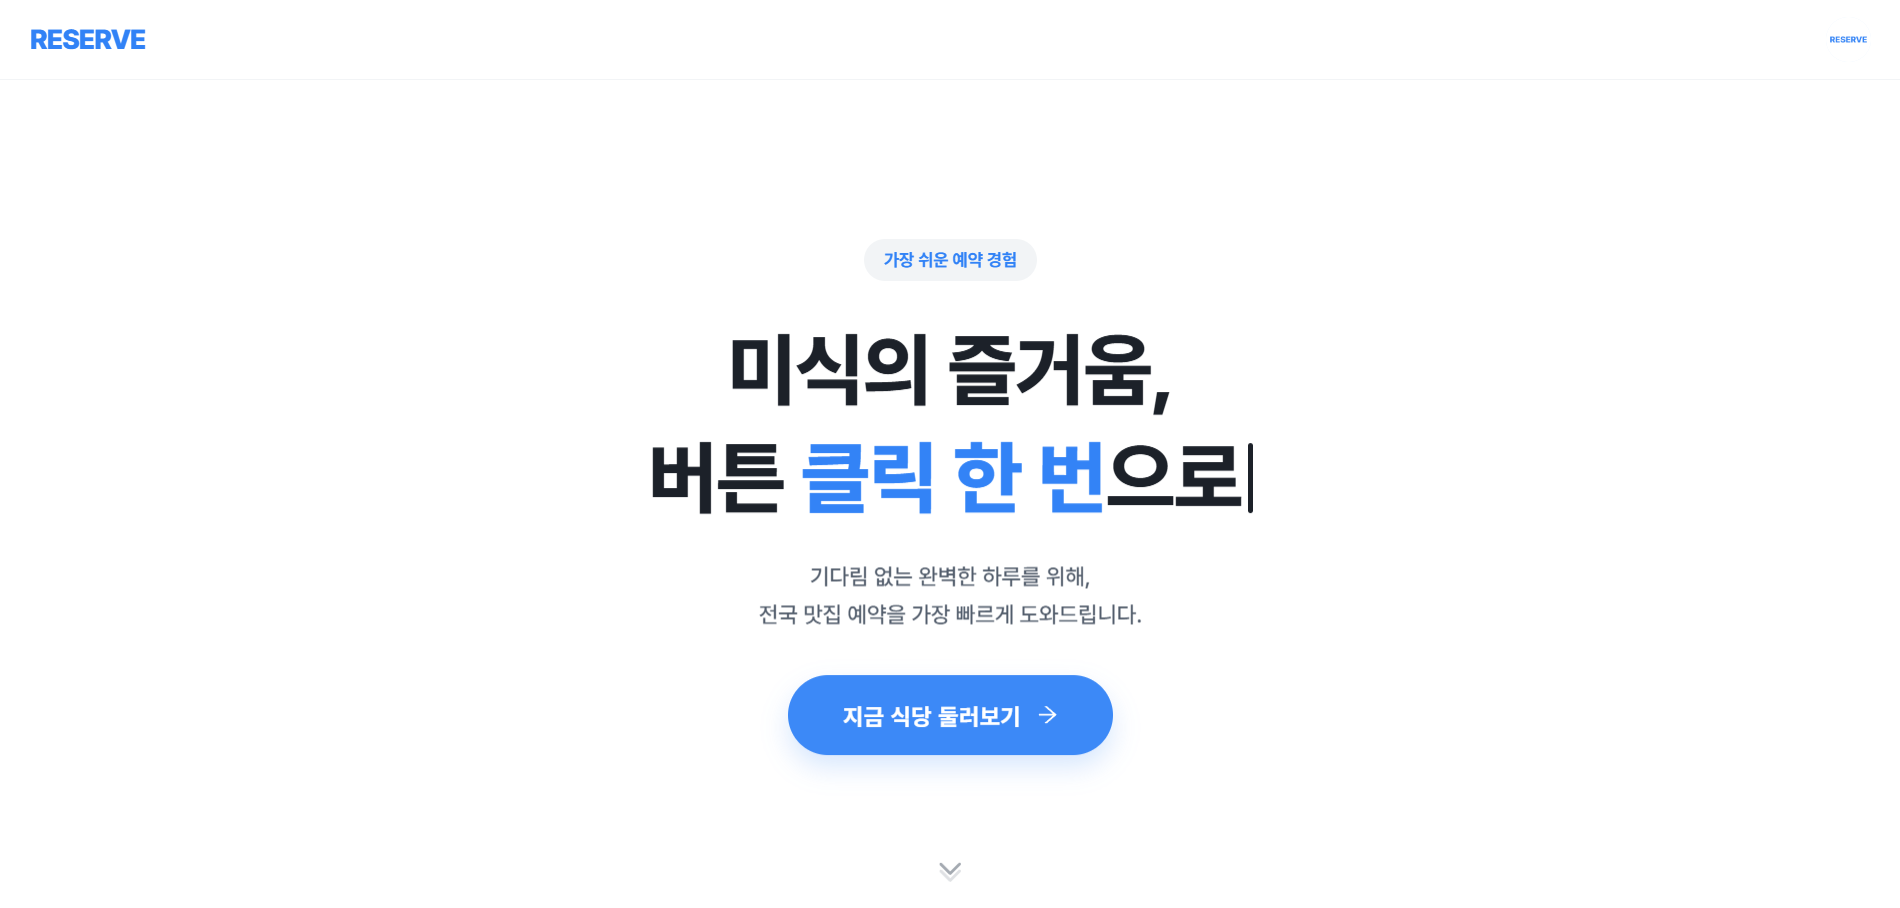
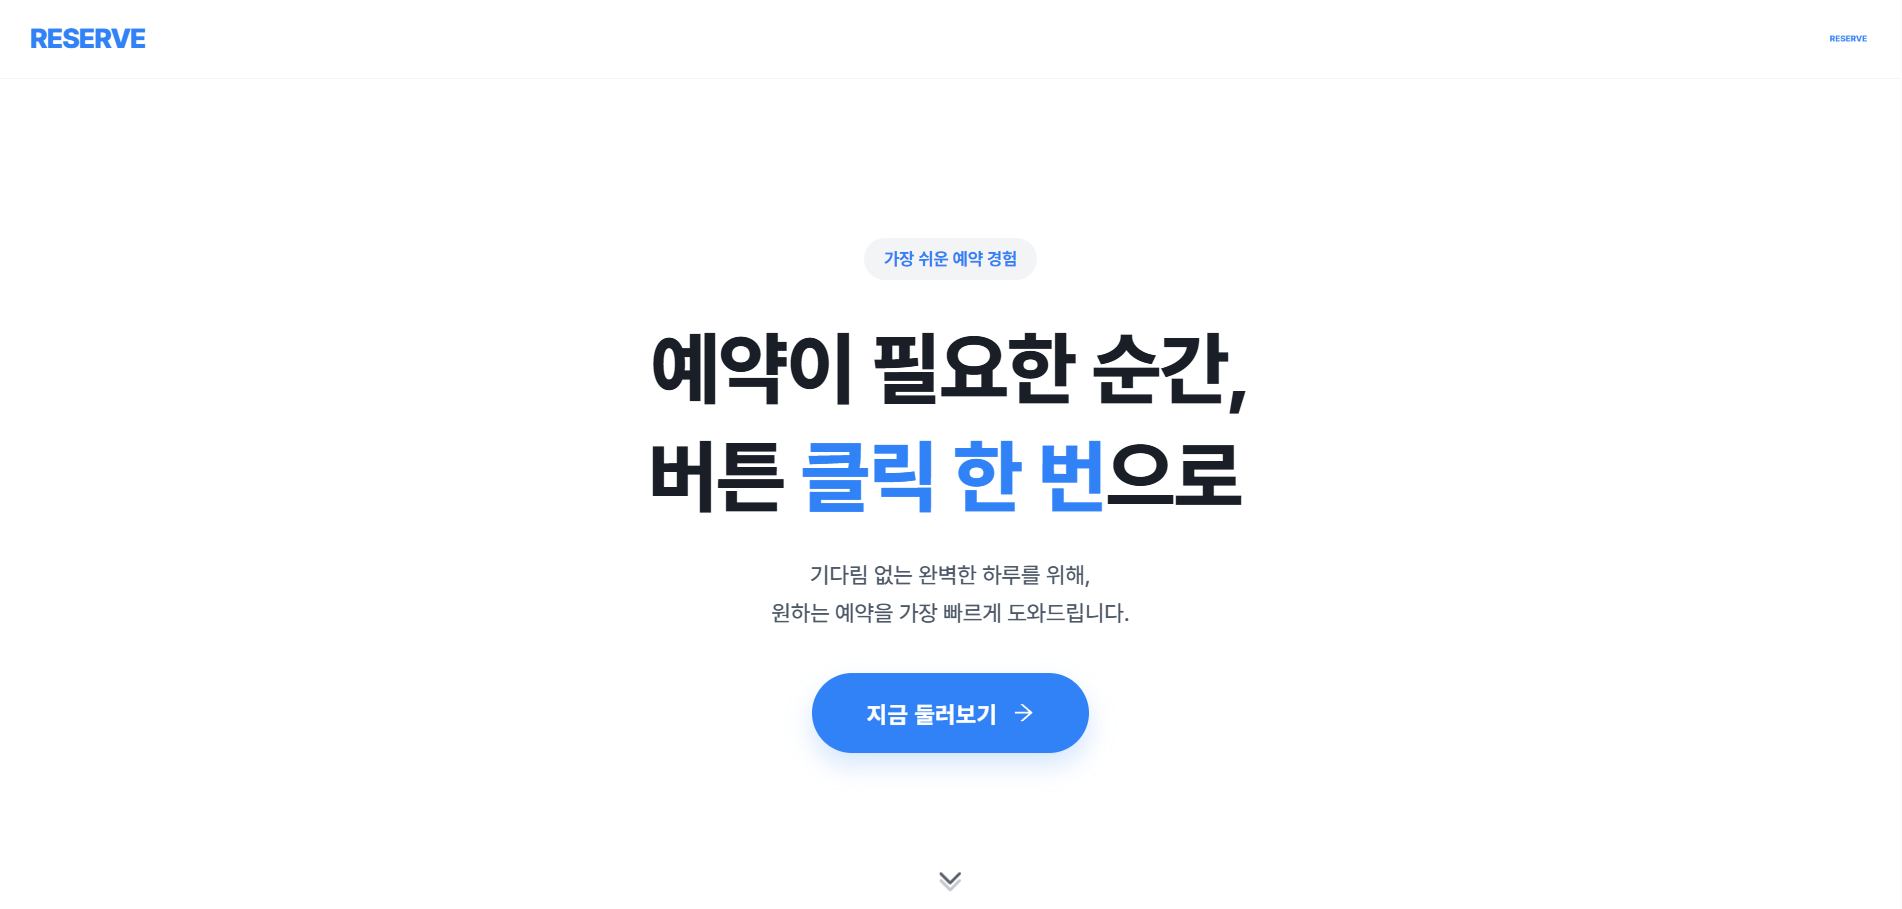
style: rebrand from restaurant-only to general reservation platform
Rebrand restaurant-specific copy to a general, any-industry reservation platform. Updated hero/section copy, FAQ, footer, terms, SEO meta (title/OG/twitter/JSON-LD), README, og-image, and screenshots; removed the unused Velog thumbnail.

diff --git a/frontend/src/pages/Home/Home.data.js b/frontend/src/pages/Home/Home.data.js
@@ -2,32 +2,32 @@ import { colors } from '../../styles/tokens';
 
 export const STORE_DATA = [
     {
-        name: '모던 이탈리안 키친',
-        category: '이탈리안',
+        name: '모던 필라테스 스튜디오',
+        category: '필라테스',
         rating: 4.9,
         reviewCount: 128,
-        img: 'https://images.unsplash.com/photo-1555396273-367ea4eb4db5?w=400&q=80',
+        img: 'https://images.unsplash.com/photo-1518611012118-696072aa579a?w=400&q=80',
     },
     {
-        name: '스시 오마카세 료',
-        category: '일식',
+        name: '청담 헤어살롱 료',
+        category: '헤어',
         rating: 4.8,
         reviewCount: 94,
-        img: 'https://images.unsplash.com/photo-1579871494447-9811cf80d66c?w=400&q=80',
+        img: 'https://images.unsplash.com/photo-1580618672591-eb180b1a973f?w=400&q=80',
     },
 ];
 
 export const RESERVATION_DATA = [
     {
-        storeName: '모던 이탈리안 키친',
-        img: 'https://images.unsplash.com/photo-1555396273-367ea4eb4db5?w=400&q=80',
+        storeName: '모던 필라테스 스튜디오',
+        img: 'https://images.unsplash.com/photo-1518611012118-696072aa579a?w=400&q=80',
         date: '2026-03-15', time: '19:00', guestCount: 2, amount: 50000,
         statusLabel: '예약 확정', statusColor: colors.primary.main,
         actionLabel: '취소', actionVariant: 'ghost-sm-danger',
     },
     {
-        storeName: '스시 오마카세 료',
-        img: 'https://images.unsplash.com/photo-1579871494447-9811cf80d66c?w=400&q=80',
+        storeName: '청담 헤어살롱 료',
+        img: 'https://images.unsplash.com/photo-1580618672591-eb180b1a973f?w=400&q=80',
         date: '2026-03-22', time: '20:00', guestCount: 4, amount: 80000,
         statusLabel: '이용 완료', statusColor: colors.success.main,
         actionLabel: '리뷰 쓰기', actionVariant: 'ghost-sm-primary',
@@ -35,10 +35,10 @@ export const RESERVATION_DATA = [
 ];
 
 export const FAQS = [
-    { q: '예약은 어떻게 하나요?',              a: '원하는 식당을 선택하고 날짜, 시간, 인원을 선택하면 바로 예약할 수 있어요. 회원가입 후 5분이면 충분해요.' },
+    { q: '예약은 어떻게 하나요?',              a: '원하는 가게를 선택하고 날짜, 시간, 인원을 선택하면 바로 예약할 수 있어요. 회원가입 후 5분이면 충분해요.' },
     { q: '예약 취소는 가능한가요?',             a: '예약 확정 전이라면 내 예약 페이지에서 언제든지 취소할 수 있어요. 취소 후 보증금은 자동 환불됩니다.' },
     { q: '결제는 어떻게 이루어지나요?',         a: '카카오페이로 간편하게 결제할 수 있어요. 예약 보증금만 미리 결제되며, 나머지는 방문 후 직접 결제해요.' },
     { q: '리뷰는 언제 작성할 수 있나요?',       a: '방문 후 이용 완료 상태가 되면 리뷰를 작성할 수 있어요. 내 예약 페이지에서 바로 작성 가능해요.' },
-    { q: '원하는 식당이 없으면 어떻게 하나요?', a: '현재 지속적으로 입점 식당을 늘리고 있어요. 원하는 식당이 없다면 리뷰나 문의로 알려주세요!' },
-    { q: '예약 확정은 얼마나 걸리나요?',        a: '식당 사정에 따라 다르지만 보통 24시간 이내에 확정 또는 거절 알림을 받을 수 있어요.' },
+    { q: '원하는 가게가 없으면 어떻게 하나요?', a: '현재 지속적으로 입점 가게를 늘리고 있어요. 원하는 가게가 없다면 리뷰나 문의로 알려주세요!' },
+    { q: '예약 확정은 얼마나 걸리나요?',        a: '가게 사정에 따라 다르지만 보통 24시간 이내에 확정 또는 거절 알림을 받을 수 있어요.' },
 ];

diff --git a/frontend/src/hooks/useDocumentTitle.js b/frontend/src/hooks/useDocumentTitle.js
@@ -1,7 +1,7 @@
 import { useEffect } from 'react';
 
 const SITE_NAME = 'RESERVE';
-const DEFAULT_DESCRIPTION = '기다림 없는 완벽한 하루를 위해, 전국 맛집 예약을 가장 빠르게 도와드립니다.';
+const DEFAULT_DESCRIPTION = '예약이 필요한 순간, 원하는 가게를 찾고 가장 빠르게 예약하세요.';
 
 /**
  * 페이지별 document title + meta description 동기화 훅
@@ -9,14 +9,14 @@ const DEFAULT_DESCRIPTION = '기다림 없는 완벽한 하루를 위해, 전국
  * 사용법:
  *   useDocumentTitle('가게 목록');
  *   useDocumentTitle('스타벅스 강남점', '스타벅스 강남점 예약 페이지입니다.');
- *   useDocumentTitle(null); // 홈 — "RESERVE | 전국 맛집 예약 플랫폼"
+ *   useDocumentTitle(null); // 홈 — "RESERVE | 예약이 필요한 순간"
  */
 const useDocumentTitle = (pageTitle, description) => {
     useEffect(() => {
         // ── title ──────────────────────────────────────────
         const title = pageTitle
             ? `${pageTitle} | ${SITE_NAME}`
-            : `${SITE_NAME} | 전국 맛집 예약 플랫폼`;
+            : `${SITE_NAME} | 예약이 필요한 순간`;
 
         document.title = title;
 
@@ -40,11 +40,11 @@ const useDocumentTitle = (pageTitle, description) => {
 
         // ── 페이지 이탈 시 기본값으로 복원 ─────────────────
         return () => {
-            document.title = `${SITE_NAME} | 전국 맛집 예약 플랫폼`;
+            document.title = `${SITE_NAME} | 예약이 필요한 순간`;
             setMeta('meta[name="description"]', DEFAULT_DESCRIPTION);
-            setMeta('meta[property="og:title"]', `${SITE_NAME} | 전국 맛집 예약 플랫폼`);
+            setMeta('meta[property="og:title"]', `${SITE_NAME} | 예약이 필요한 순간`);
             setMeta('meta[property="og:description"]', DEFAULT_DESCRIPTION);
-            setMeta('meta[name="twitter:title"]', `${SITE_NAME} | 전국 맛집 예약 플랫폼`);
+            setMeta('meta[name="twitter:title"]', `${SITE_NAME} | 예약이 필요한 순간`);
             setMeta('meta[name="twitter:description"]', DEFAULT_DESCRIPTION);
         };
     }, [pageTitle, description]);

diff --git a/frontend/src/pages/store/StoreList.jsx b/frontend/src/pages/store/StoreList.jsx
@@ -21,7 +21,7 @@ const StoreList = () => {
         searchParams, setSearchParams,
     } = useStoreList();
 
-    useDocumentTitle('가게 목록', '원하는 조건으로 최고의 식당을 찾아보세요. RESERVE에서 전국 맛집을 간편하게 예약할 수 있습니다.');
+    useDocumentTitle('가게 목록', '원하는 조건으로 최고의 가게를 찾아보세요. RESERVE에서 다양한 업종을 간편하게 예약할 수 있습니다.');
 
     const sentinelRef = React.useRef(null);
     const fetchNextRef = React.useRef(fetchNextPage);
@@ -52,14 +52,14 @@ const StoreList = () => {
             {/* 헤더 */}
             <div style={styles.header}>
                 <div style={styles.headerLeft}>
-                    <Title level={2} style={styles.title}>맛집 둘러보기</Title>
+                    <Title level={2} style={styles.title}>가게 둘러보기</Title>
                     <Text type="secondary" style={{ fontSize: fontSize.lg }}>
-                        원하는 조건으로 최고의 식당을 찾아보세요
+                        원하는 조건으로 최고의 가게를 찾아보세요
                     </Text>
                 </div>
                 <div style={styles.searchWrap}>
                     <Search
-                        placeholder="식당 이름 또는 카테고리"
+                        placeholder="가게 이름 또는 카테고리"
                         defaultValue={searchParams.keyword}
                         key={searchParams.keyword}
                         onSearch={handleSearch}
@@ -89,7 +89,7 @@ const StoreList = () => {
                     <div style={styles.fadeOut} />
                 </div>
             ) : stores.length === 0 ? (
-                <Empty description="조건에 맞는 식당이 없습니다." style={{ marginTop: 100 }} />
+                <Empty description="조건에 맞는 가게가 없습니다." style={{ marginTop: 100 }} />
             ) : (
                 <>
                     <div style={styles.grid}>

diff --git a/frontend/src/pages/Home/sections/HeroSection.jsx b/frontend/src/pages/Home/sections/HeroSection.jsx
@@ -56,7 +56,7 @@ export default function HeroSection({ isMobile }) {
                 </div>
                 <div className="slide-up" style={{ ...styles.titleContainer, animationDelay: '0.18s' }}>
                     <Title style={styles.mainTitle}>
-                        <div style={styles.lineWrapper}>미식의 즐거움,</div>
+                        <div style={styles.lineWrapper}>예약이 필요한 순간,</div>
                         <div style={styles.lineWrapper}>
                             {renderParts(current, LINES[lineIdx])}
                             <span className="cursor" />
@@ -66,12 +66,12 @@ export default function HeroSection({ isMobile }) {
                 <div className="slide-up" style={{ animationDelay: '0.28s', textAlign: 'center' }}>
                     <Text style={styles.subTitle}>
                         기다림 없는 완벽한 하루를 위해,<br />
-                        전국 맛집 예약을 가장 빠르게 도와드립니다.
+                        원하는 예약을 가장 빠르게 도와드립니다.
                     </Text>
                 </div>
                 <div className="slide-up" style={{ animationDelay: '0.36s', marginTop: 32 }}>
                     <Button variant="hero" onClick={() => navigate('/stores')} style={styles.heroBtn}>
-                        지금 식당 둘러보기
+                        지금 둘러보기
                         <ArrowRightOutlined style={{ marginLeft: 8, fontSize: 17 }} />
                     </Button>
                 </div>

diff --git a/frontend/src/components/layout/Footer.jsx b/frontend/src/components/layout/Footer.jsx
@@ -125,7 +125,7 @@ const AppFooter = () => {
                         <div style={{ display: 'flex', flexDirection: 'column', gap: 10, maxWidth: 280 }}>
                             <div style={{ fontSize: 20, fontWeight: 800, color: colors.primary.main, letterSpacing: '-0.5px' }}>RESERVE</div>
                             <Text style={{ fontSize: fontSize.sm, color: colors.text.tertiary, lineHeight: 1.7 }}>
-                                미식의 즐거움 버튼 클릭 한 번으로,<br />
+                                예약이 필요한 순간,<br />
                                 예약부터 결제까지 한 번에.
                             </Text>
                             <div style={{ display: 'flex', gap: 8, marginTop: 2 }}>
@@ -139,7 +139,7 @@ const AppFooter = () => {
                             {/* 서비스 */}
                             <div style={{ display: 'flex', flexDirection: 'column', gap: 10, alignItems: 'flex-start' }}>
                                 <Text style={{ fontSize: 11, fontWeight: fontWeight.semibold, color: colors.text.secondary, letterSpacing: '0.08em', textTransform: 'uppercase' }}>서비스</Text>
-                                <FooterLink label="식당 탐색" onClick={() => navigate('/stores')} />
+                                <FooterLink label="가게 탐색" onClick={() => navigate('/stores')} />
                                 <FooterLink label="예약 확인" onClick={() => navigate('/my-reservations')} />
                             </div>
                             

diff --git a/frontend/src/pages/Home/Home.constants.js b/frontend/src/pages/Home/Home.constants.js
@@ -12,9 +12,9 @@ export const SECTION_IDS = ['section-0', 'section-1', 'section-2', 'section-faq'
 // JSX 대신 컴포넌트 참조 저장 → 렌더 시 동적 생성으로 useState 버그 해결
 export const SECTIONS = [
     {
-        id: 'section-0', tag: '식당 탐색',
-        title: ['원하는 식당을', '한눈에 찾아보세요'], blue: '한눈에',
-        desc: ['카테고리, 위치, 날짜별로 검색해', '내 상황에 딱 맞는 식당을 찾아보세요.'],
+        id: 'section-0', tag: '가게 탐색',
+        title: ['원하는 가게를', '한눈에 찾아보세요'], blue: '한눈에',
+        desc: ['카테고리, 위치, 날짜별로 검색해', '내 상황에 딱 맞는 가게를 찾아보세요.'],
         points: ['실시간 잔여석 확인', '카테고리 · 별점 필터', '리뷰 기반 추천'],
         Ui: MockStoreList, UiMobile: MockStoreListMobile, reverse: false,
     },

diff --git a/frontend/src/pages/legal/Terms.jsx b/frontend/src/pages/legal/Terms.jsx
@@ -23,7 +23,7 @@ const Terms = () => {
             </div>
 
             <Section title="제1조 (목적)">
-                <Paragraph>본 약관은 RESERVE(이하 "서비스")가 제공하는 식당 예약 플랫폼 서비스의 이용과 관련하여 서비스와 이용자 간의 권리, 의무 및 책임사항을 규정함을 목적으로 합니다.</Paragraph>
+                <Paragraph>본 약관은 RESERVE(이하 "서비스")가 제공하는 가게 예약 플랫폼 서비스의 이용과 관련하여 서비스와 이용자 간의 권리, 의무 및 책임사항을 규정함을 목적으로 합니다.</Paragraph>
                 <Paragraph>본 서비스는 포트폴리오 목적으로 제작된 서비스로, 실제 상업적 운영이 아님을 명시합니다.</Paragraph>
             </Section>
 

diff --git a/frontend/src/components/review/ReviewList.jsx b/frontend/src/components/review/ReviewList.jsx
@@ -58,7 +58,7 @@ const ReviewForm = ({ userName, form, setForm, onSubmit, onCancel, loading: form
                 <FormTextArea
                     value={form.content}
                     onChange={e => setForm(f => ({ ...f, content: e.target.value }))}
-                    placeholder="음식 맛, 서비스, 분위기 등 솔직한 경험을 공유해주세요 (10자 이상)"
+                    placeholder="서비스, 분위기 등 솔직한 경험을 공유해주세요 (10자 이상)"
                     rows={4}
                     maxLength={1000}
                     showCount

diff --git a/frontend/src/pages/Home/hooks/useLineLoop.js b/frontend/src/pages/Home/hooks/useLineLoop.js
@@ -4,7 +4,7 @@ import Hangul from 'hangul-js';
 export const LINES = [
     { before: '버튼 ', blue: '클릭 한 번', after: '으로' },
     { before: '더 쉽고 ', blue: '더 놀라운', after: ' 경험을' },
-    { before: '', blue: '모든 식당', after: '을 예약하세요' },
+    { before: '', blue: '원하는 곳', after: '을 예약하세요' },
     { before: '', blue: '지금 바로', after: ' 시작해보세요' },
 ];
 

diff --git a/README.md b/README.md
@@ -4,7 +4,7 @@
 
 <img src="frontend/public/icons/RESERVE_logo.png" alt="RESERVE" width="340" />
 
-**미식 예약 플랫폼** — 식당을 찾고, 예약하고, 결제까지 한번에
+**예약이 필요한 순간** — 어떤 가게든, 찾고 예약하고 결제까지 한번에
 
 🌐 **[reserve.it.kr](https://reserve.it.kr)**
 
@@ -22,7 +22,7 @@
 
 ## 소개
 
-RESERVE는 미식의 즐거움을 더 쉽고 빠르게 만들기 위한 식당 예약 플랫폼입니다.
+RESERVE는 업종에 구애받지 않고, 예약이 필요한 순간 누구나 가장 빠르게 예약할 수 있도록 도와주는 플랫폼입니다.
 
 손님은 원하는 가게를 검색하고 간편하게 예약할 수 있으며, 사장님은 예약 관리와 승인/거절을 한 곳에서 처리할 수 있습니다. 노쇼 방지를 위한 예약금 결제 기능도 제공합니다.
 
